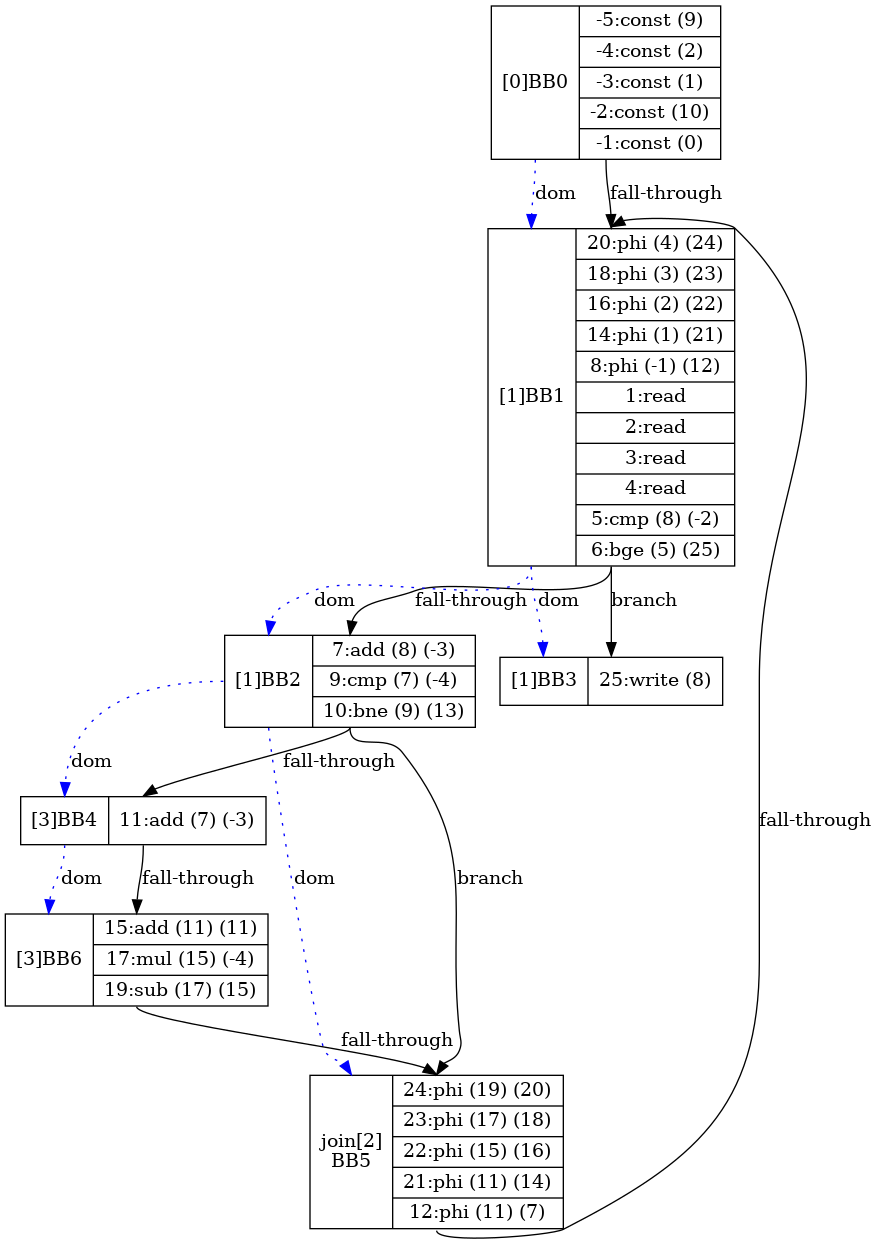
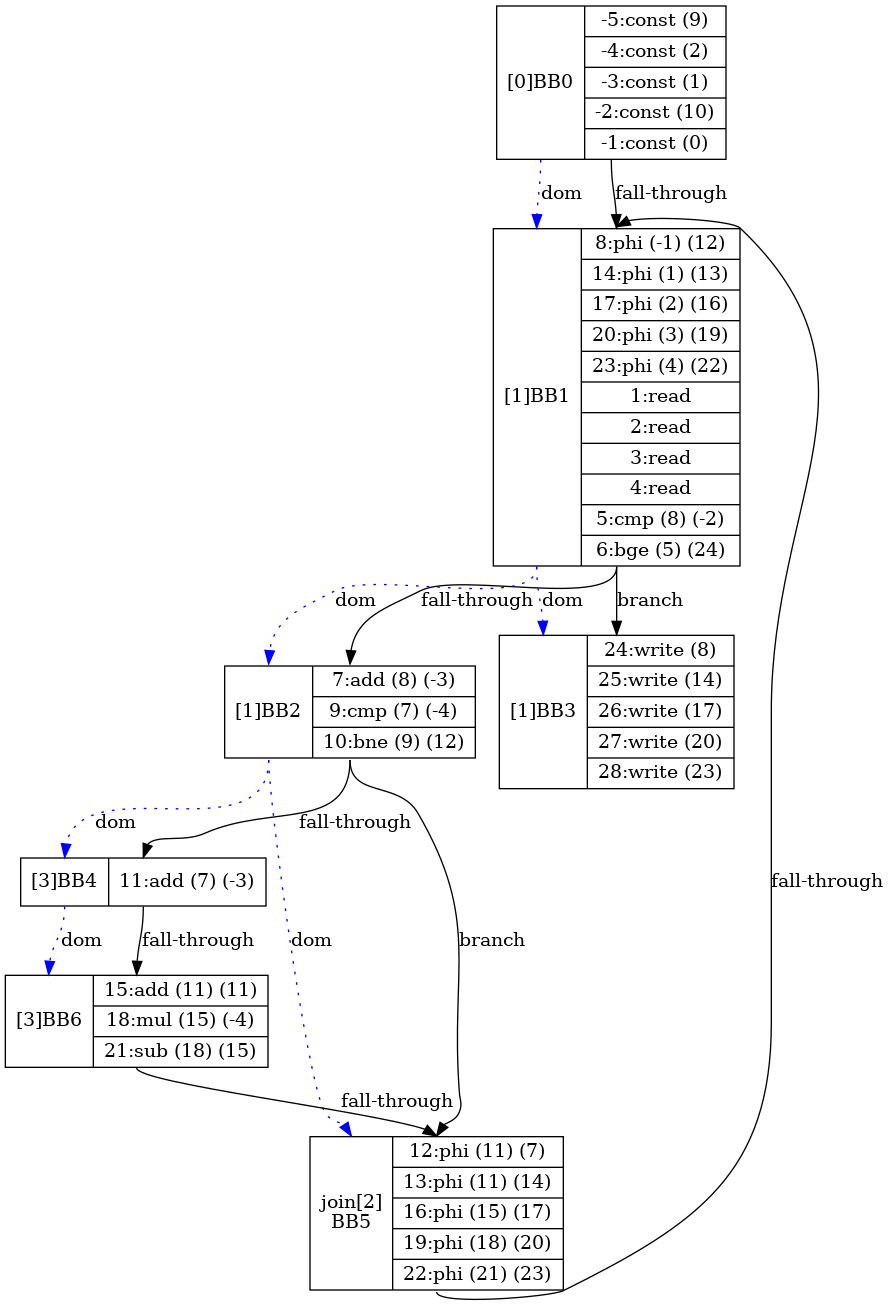
finished testing [while_if1]; todo - [while_if2.ty][NESTED]; todo - finish funcCalls; todo - valgrind

diff --git a/src/Parser.hpp b/src/Parser.hpp
@@ -557,9 +557,35 @@ public:
                 if (instr->get_operator() == 6) {
                     // [11.01.2024]: phi instructions go ontop of [this->newInstrs]
                     // - insert into initial position
-                    this->currBB->newInstrs.insert(this->currBB->newInstrs.begin(), BasicBlock::instrList.at(instr->get_operator())->InsertAtTail(instr));
-                    for (size_t i = 0; i < this->currBB->newInstrs.size(); i++) {
-                        // [12.31.2024]: insert into first position behind phi
+                    // this->currBB->newInstrs.insert(this->currBB->newInstrs.begin(), BasicBlock::instrList.at(instr->get_operator())->InsertAtTail(instr));
+                    if (this->currBB->newInstrs.size() > 0) {
+                        size_t i = 0;
+                        bool inserted = false;
+                        while (i < this->currBB->newInstrs.size()) {
+                            // [12.31.2024]: insert into first position behind phi
+                            if (this->currBB->newInstrs.at(i)->instr->get_operator() != 6) {
+                                this->currBB->newInstrs.insert(this->currBB->newInstrs.begin() + i, BasicBlock::instrList.at(instr->get_operator())->InsertAtTail(instr));
+                                inserted = true;
+                                break;
+                            }
+                            i++;
+                        }
+
+                        // [1.1.2025]: if BB only contains phi-isntrs, we add to end of [newInstr]
+                        if (i >= this->currBB->newInstrs.size()) {
+                            this->currBB->newInstrs.insert(this->currBB->newInstrs.end(), BasicBlock::instrList.at(instr->get_operator())->InsertAtTail(instr));
+                            inserted = true;
+                        }
+                        
+                        if (!inserted) {
+                            this->currBB->newInstrs.insert(this->currBB->newInstrs.begin(), BasicBlock::instrList.at(instr->get_operator())->InsertAtTail(instr));    
+                        }
+
+                        #ifdef DEBUG
+                            std::cout << "inserted new phi-instr behind old phi's looks like: " << std::endl << this->currBB->toString() << std::endl;
+                        #endif
+                    } else {
+                        this->currBB->newInstrs.insert(this->currBB->newInstrs.begin(), BasicBlock::instrList.at(instr->get_operator())->InsertAtTail(instr));
                     }
                 } else {
                     // [10.23.2024]: [LinkedList::InsertAtTail()] returns [Node*]
@@ -617,13 +643,6 @@ public:
         #endif
          if (!first) {
             seen.push_back(curr);
-        }
-
-        if (!first && this->currBB->compare(curr)) {
-            #ifdef DEBUG
-                std::cout << "returning: in a loop! found startBB" << std::endl;
-            #endif
-            return;
         }
 
         if (curr->varVals.find(ident) != curr->varVals.end()) {
@@ -769,6 +788,7 @@ public:
 
                         // if (this->currBB->findSSA(prevVal)) {
                         if (curr->findSSA(prevVal)) {
+                            curr->updateInstructions(oldVal, BasicBlock::ssa_table.at(ident_val));
                             // [12.26.2024]: this hsould be the end of [propagateDown()] for this branch right?
                             // - since prevVal was created in [this->currBB], we can assume future BB's that're DOM by this->currBB will either use that val or update it
                             #ifdef DEBUG
@@ -799,6 +819,15 @@ public:
         #ifdef DEBUG
             std::cout << "after update curr looks like: " << std::endl << curr->toString() << std::endl;
         #endif
+
+        if (!first && this->currBB->compare(curr)) {
+            curr->updateInstructions(oldVal, BasicBlock::ssa_table.at(ident_val));
+
+            #ifdef DEBUG
+                std::cout << "returning: in a loop! found startBB" << std::endl;
+            #endif
+            return;
+        }
 
         if ((curr->child) && (std::find(seen.begin(), seen.end(), curr->child) == seen.end())) {
             propagateDown(curr->child, ident, oldVal, ident_val, false, seen, updateIf);
@@ -1144,41 +1173,53 @@ public:
                 bool newAdd = false;
 
                 if (this->currBB->varVals.find(p) != this->currBB->varVals.end()) {
+                    SSA *currVal = BasicBlock::ssa_table.at(this->currBB->varVals.at(p));
                     #ifdef DEBUG
-                        std::cout << "conditionalStmtPhiUpdate's [currBB==join-blk], ident's prev Value is: [" << BasicBlock::ssa_table.at(this->currBB->varVals.at(p))->toString() << "]" << std::endl;
+                        std::cout << "conditionalStmtPhiUpdate's [currBB==join-blk], ident's prev Value is: [" << currVal->toString() << "]" << std::endl;
                     #endif
-                    if (this->currBB->findSSA(BasicBlock::ssa_table.at(this->currBB->varVals.at(p)))) {
+                    if (this->currBB->findSSA(currVal)) {
                         #ifdef DEBUG
                             std::cout << "[this->currBB]'s [newInstrs] contains the previous value!" << std::endl;
                         #endif
-                        if (BasicBlock::ssa_table.at(this->currBB->varVals.at(p))->compare(6, BasicBlock::ssa_table.at(then_blk_last->varVals.at(p)), BasicBlock::ssa_table.at(else_blk_last->varVals.at(p)))) {
+                        if (currVal->get_operand1()->compare(then_phi) || currVal->get_operand2()->compare(else_phi)) {
+                            if (currVal->get_operand1()->compare(then_phi)) {
+                                this->currBB->varVals.insert_or_assign(p, BasicBlock::ssa_table_reversed.at(this->set_operand(2, currVal, BasicBlock::ssa_table.at(else_blk_last->varVals.at(p)), p)));
+                            } else if (currVal->get_operand2()->compare(else_phi)) {
+                                this->currBB->varVals.insert_or_assign(p, BasicBlock::ssa_table_reversed.at(this->set_operand(1, currVal, BasicBlock::ssa_table.at(then_blk_last->varVals.at(p)), p)));
+                            }
                             #ifdef DEBUG
-                                std::cout << "\tthe previous value is the same as the value we were planning to add; no need to add or create new SSA!" << std::endl;
-                            #endif
-                            continue;
-                        } else if (BasicBlock::ssa_table.at(this->currBB->varVals.at(p))->get_operand1()->compare(BasicBlock::ssa_table.at(then_blk_last->varVals.at(p)))) {
-                            // [12.17.2024]: the real question is how to denote if-path vs else-path...
-                            // - since one requires us to [set_operand1()] while the other requries [set_operand2()]
-                            // this->set_operand(2, BasicBlock::ssa_table.at(this->currBB->varVals.at(p)), BasicBlock::ssa_table.at(else_blk_last->varVals.at(p)), p);
-                            this->currBB->varVals.insert_or_assign(p, BasicBlock::ssa_table_reversed.at(this->set_operand(2, BasicBlock::ssa_table.at(this->currBB->varVals.at(p)), BasicBlock::ssa_table.at(else_blk_last->varVals.at(p)), p)));
-                            // BasicBlock::ssa_table.at(this->currBB->varVals.at(p))->set_operand2(BasicBlock::ssa_table.at(else_blk_last->varVals.at(p)));
-                            #ifdef DEBUG
-                                std::cout << "updating operand2()" << std::endl;
-                            #endif
-                        } else if (oldVal && (BasicBlock::ssa_table.at(this->currBB->varVals.at(p))->get_operand1()->compare(oldVal))) {
-                            // [12.17.2024]: if [operand1()] is same as [oldVal], implies we should update [operand1()]
-                            // this->set_operand(1, BasicBlock::ssa_table.at(this->currBB->varVals.at(p)), BasicBlock::ssa_table.at(else_blk_last->varVals.at(p)), p);
-                            this->currBB->varVals.insert_or_assign(p, BasicBlock::ssa_table_reversed.at(this->set_operand(1, BasicBlock::ssa_table.at(this->currBB->varVals.at(p)), BasicBlock::ssa_table.at(else_blk_last->varVals.at(p)), p)));
-                            // BasicBlock::ssa_table.at(this->currBB->varVals.at(p))->set_operand1(BasicBlock::ssa_table.at(else_blk_last->varVals.at(p)));
-                            #ifdef DEBUG
-                                std::cout << "updating operand1()" << std::endl;
+                                std::cout << "currBB after updating opernad looks like: " << std::endl << this->currBB->toString() << std::endl;
                             #endif
                         } else {
-                            #ifdef DEBUG
-                                std::cout << "about to remove ssa [" << BasicBlock::ssa_table.at(this->currBB->varVals.at(p))->toString() << "]" << std::endl;
-                            #endif
-                            this->currBB->removeSSA(BasicBlock::ssa_table.at(this->currBB->varVals.at(p))); // [12.14.2024]: lets just leavei t there
-                            newAdd = true;
+                            if (currVal->compare(6, BasicBlock::ssa_table.at(then_blk_last->varVals.at(p)), BasicBlock::ssa_table.at(else_blk_last->varVals.at(p)))) {
+                                #ifdef DEBUG
+                                    std::cout << "\tthe previous value is the same as the value we were planning to add; no need to add or create new SSA!" << std::endl;
+                                #endif
+                                continue;
+                            } else if (currVal->get_operand1()->compare(BasicBlock::ssa_table.at(then_blk_last->varVals.at(p)))) {
+                                // [12.17.2024]: the real question is how to denote if-path vs else-path...
+                                // - since one requires us to [set_operand1()] while the other requries [set_operand2()]
+                                // this->set_operand(2, currVal, BasicBlock::ssa_table.at(else_blk_last->varVals.at(p)), p);
+                                this->currBB->varVals.insert_or_assign(p, BasicBlock::ssa_table_reversed.at(this->set_operand(2, currVal, BasicBlock::ssa_table.at(else_blk_last->varVals.at(p)), p)));
+                                // currVal->set_operand2(BasicBlock::ssa_table.at(else_blk_last->varVals.at(p)));
+                                #ifdef DEBUG
+                                    std::cout << "updating operand2()" << std::endl;
+                                #endif
+                            } else if (oldVal && (currVal->get_operand1()->compare(oldVal))) {
+                                // [12.17.2024]: if [operand1()] is same as [oldVal], implies we should update [operand1()]
+                                // this->set_operand(1, currVal, BasicBlock::ssa_table.at(else_blk_last->varVals.at(p)), p);
+                                this->currBB->varVals.insert_or_assign(p, BasicBlock::ssa_table_reversed.at(this->set_operand(1, currVal, BasicBlock::ssa_table.at(else_blk_last->varVals.at(p)), p)));
+                                // currVal->set_operand1(BasicBlock::ssa_table.at(else_blk_last->varVals.at(p)));
+                                #ifdef DEBUG
+                                    std::cout << "updating operand1()" << std::endl;
+                                #endif
+                            } else {
+                                #ifdef DEBUG
+                                    std::cout << "about to remove ssa [" << currVal->toString() << "]" << std::endl;
+                                #endif
+                                this->currBB->removeSSA(currVal); // [12.14.2024]: lets just leavei t there
+                                newAdd = true;
+                            }
                         }
                     } else { newAdd = true; }
                 }
@@ -1190,7 +1231,7 @@ public:
                     // [10.28.2024]: Update BasicBlock's VV
                     this->currBB->varVals.insert_or_assign(p, phi_table_int);
                     this->VVs.insert_or_assign(p, phi_table_int);
-                }
+                } else { phi_table_int = this->currBB->varVals.at(p); phi_instr = BasicBlock::ssa_table.at(phi_table_int); }
                 
                 #ifdef DEBUG
                     std::cout << "currBB after updtae: " << std::endl << this->currBB->toString() << std::endl;

diff --git a/src/Parser.cpp b/src/Parser.cpp
@@ -577,18 +577,12 @@ SSA* Parser::p2_assignment() {
                     std::cout << "child2 blk == " << this->currBB->child2->toString() << std::endl;
                 #endif
                 this->currBB->child->child2 = this->currBB->child2;
-                if (this->currBB->child->child2->parent->blockNum == this->currBB->blockNum) {
+                if (this->currBB->child2->parent->blockNum == this->currBB->blockNum) {
                     this->currBB->child->child2->parent = this->currBB->child;
                 } else {
                     this->currBB->child->child2->parent2 = this->currBB->child;
                 }
                 this->currBB->child2 = nullptr;
-
-                if (this->currBB->child->child2->parent->blockNum == this->currBB->blockNum) {
-                    this->currBB->child->child2->parent = this->currBB->child;
-                } else {
-                    this->currBB->child->child2->parent2 = this->currBB->child;
-                }
             }
             // }
         } else if (this->currBB->child) {
@@ -648,15 +642,15 @@ SSA* Parser::p2_assignment() {
             #endif
         }
 
-        // [12.28.2024]: oldVal == nullptr simply indicates that this var hasn't been defined yet (this is first def)
-        // if (this->currBB->varVals.find(ident) == this->currBB->varVals.end()) {
-        //     this->handleUninitVar(ident);
-        //     oldVal = BasicBlock::ssa_table.at(this->currBB->varVals.at(ident));
+        // [1.1.2024]: if currBB has a prev definition we'll take it
+        if (this->currBB->varVals.find(ident) != this->currBB->varVals.end()) {
+            // this->handleUninitVar(ident);
+            oldVal = BasicBlock::ssa_table.at(this->currBB->varVals.at(ident));
             
-        //     #ifdef DEBUG
-        //         std::cout << "updated uninitialized variable to: " << oldVal->toString() << std::endl;
-        //     #endif
-        // }
+            #ifdef DEBUG
+                std::cout << "updated oldVal to: " << oldVal->toString() << std::endl;
+            #endif
+        }
     }
 
     #ifdef DEBUG

diff --git a/main.cpp b/main.cpp
@@ -24,7 +24,7 @@
 // std::string f_name = file_name;
 // std::string f_full = f_name + f_ext;
 // std::string in_f = "tst/" + f_name + f_ext;
-#define in_f "tst/while_if1.ty"
+#define in_f "tst/while_if2.ty"
 
 // [10.23.2024]: Silly rabbit
 
